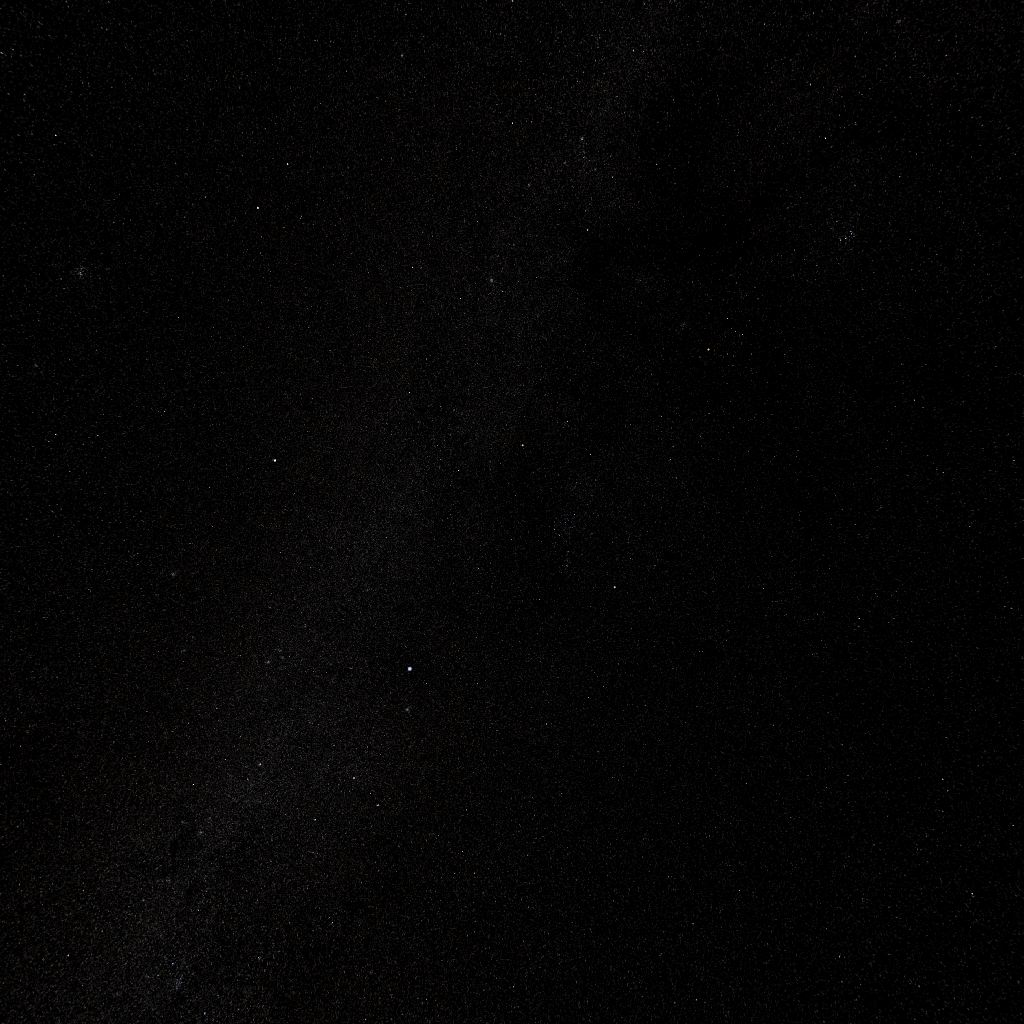
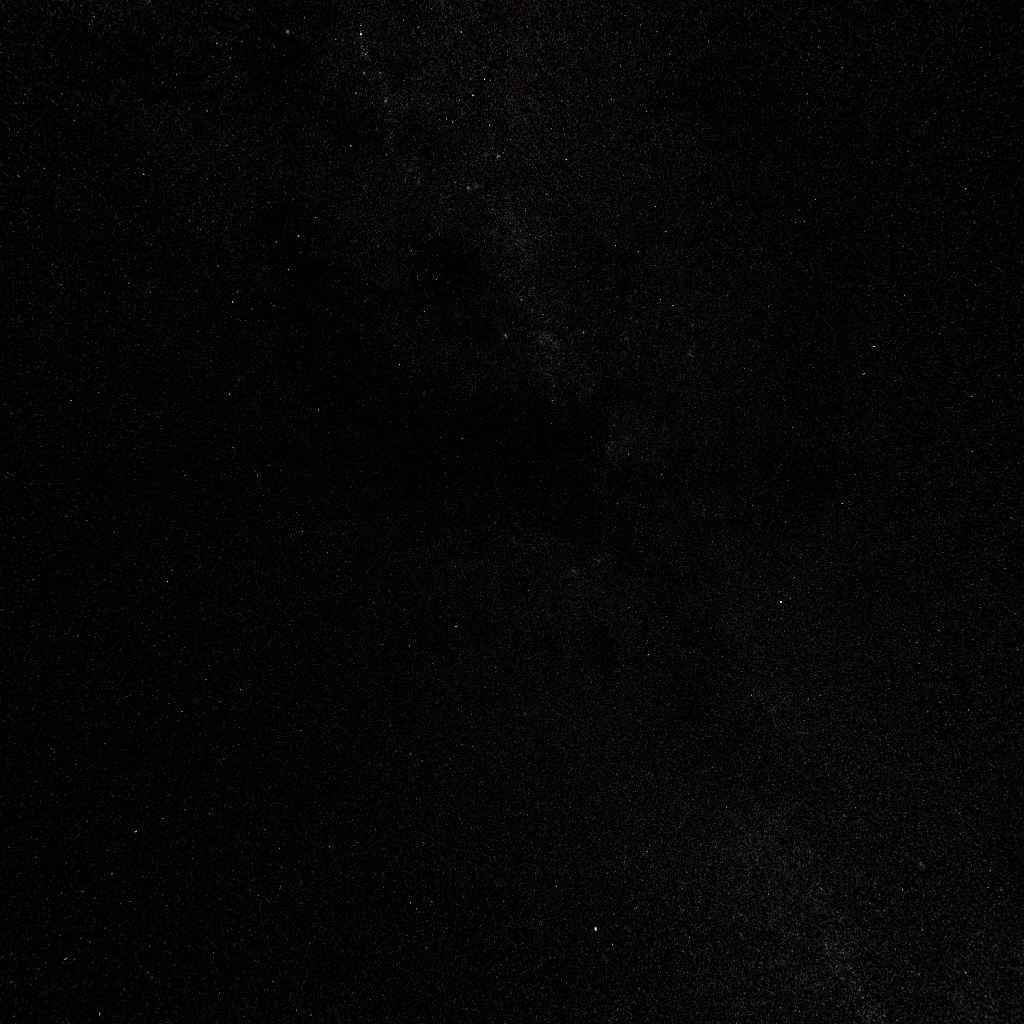
天空盒,done

diff --git a/src/views/Earth/InitEarth3D.ts b/src/views/Earth/InitEarth3D.ts
@@ -60,25 +60,16 @@ export default class InitEarth3D extends Base {
   private initSkyBox() {
     const textureCubeLoader = new THREE.CubeTextureLoader().setPath('/earth3d/skybox_galaxy/')
     const textureCube = textureCubeLoader.load([
-      // 'px.jpg',
-      // 'mx.jpg',
-      // 'py.jpg',
-      // 'my.jpg',
-      // 'pz.jpg',
-      // 'mz.jpg'
-
-      // ----
-
       'px.jpg',
-      'mx.jpg',
-      'my.jpg',
+      'nx.jpg',
       'py.jpg',
+      'ny.jpg',
       'pz.jpg',
-      'mz.jpg',
-    ])
+      'nz.jpg',
+    ]);
 
-    this.scene.background = textureCube
-    this.scene.environment = textureCube
+    this.scene.background = textureCube;
+    this.scene.environment = textureCube;
   }
 
   /**
